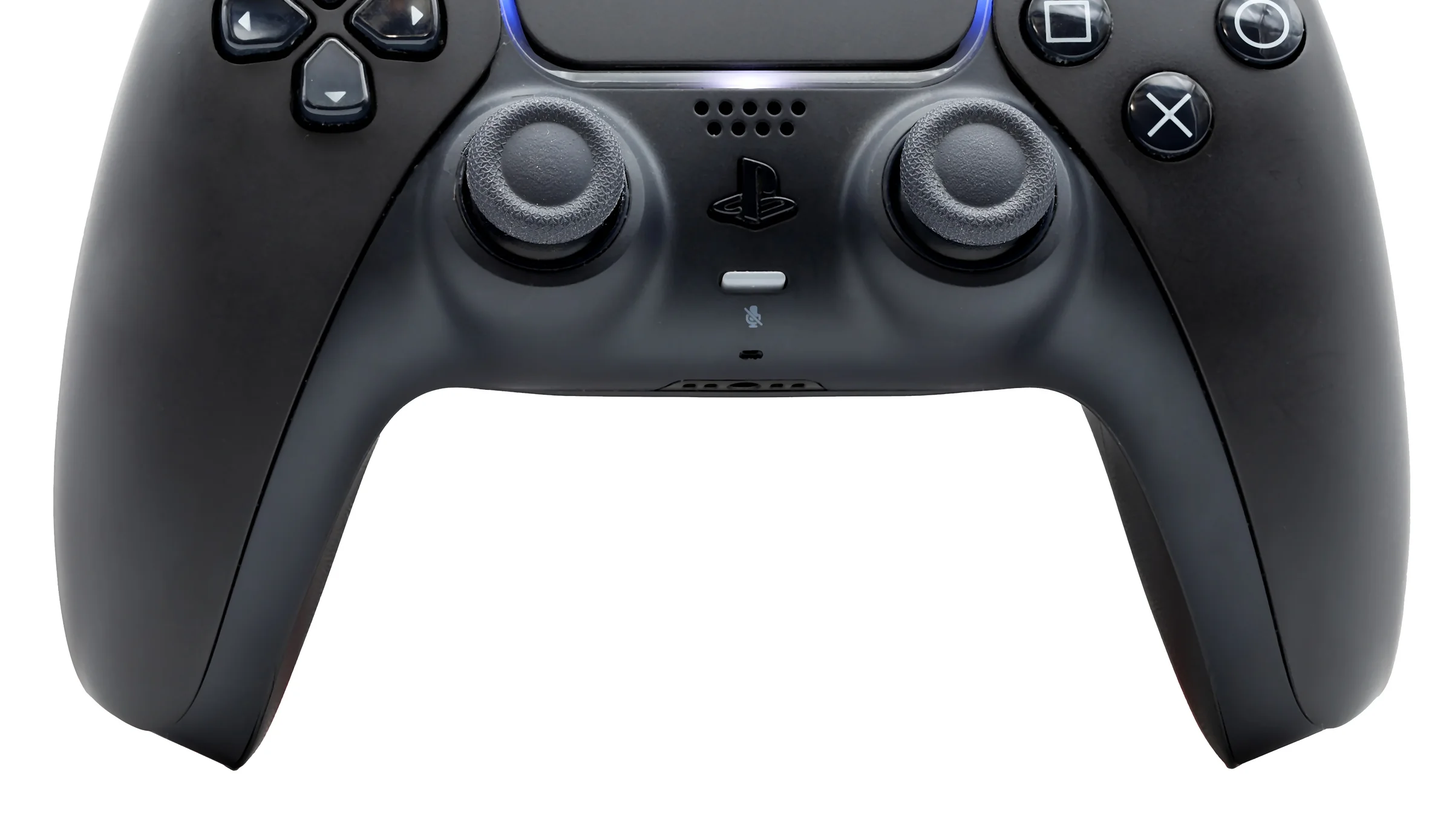
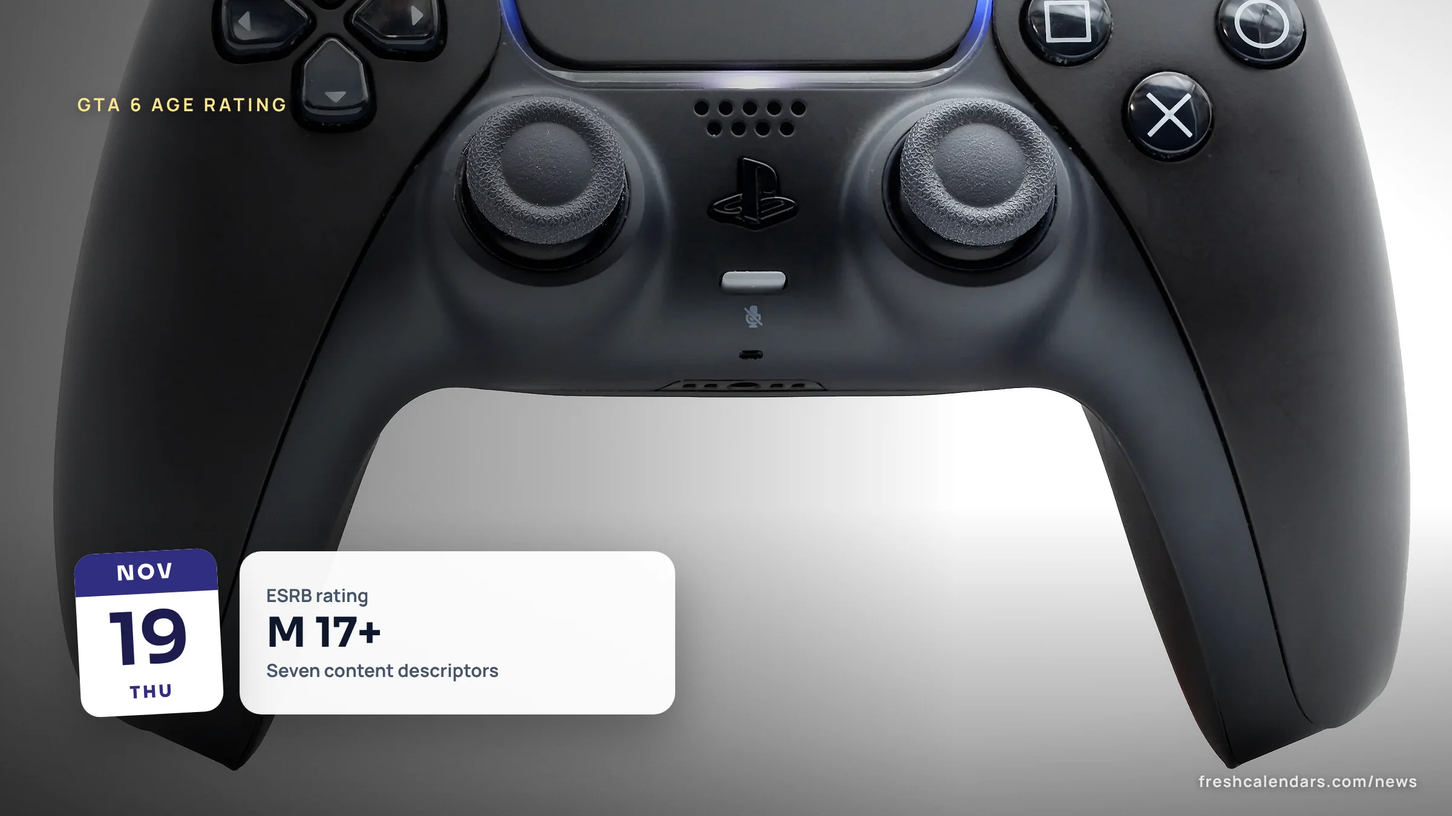
news(gta-6): launch stories in progress
Claude-Session: https://claude.ai/code/session_01FjeiYS8veVExHHG2PytUqw

diff --git a/apps/news/src/content/articles/2026/10/gta-6-october-22-2026-what-is-confirmed-release-countdown.md b/apps/news/src/content/articles/2026/10/gta-6-october-22-2026-what-is-confirmed-release-countdown.md
@@ -20,10 +20,10 @@ summary:
   - "Not announced: a PC version, an Xbox console release hour, Xbox install size and any online mode date."
 faq:
   - q: "Did GTA 6 change its release date?"
-    a: "No. Rockstar's official Grand Theft Auto VI page reads \"Coming November 19, 2026,\" and PlayStation, Microsoft and Take-Two Interactive all repeat Nov. 19. The date moved once, to Nov. 19 from the earlier May 26, 2026 target, before the June pre-orders; the Oct. 22 reveal day did not touch it."
+    a: "No. Rockstar's official Grand Theft Auto VI page reads \"Coming November 19, 2026,\" and PlayStation, Microsoft and Take-Two Interactive all repeat Nov. 19. The Oct. 22 reveal day did not touch it."
   - q: "When does GTA 6 come out?"
     a: "Thursday, Nov. 19, 2026, on PlayStation 5 and Xbox Series X|S, according to Rockstar Games and Take-Two Interactive. PlayStation says midnight local time on PS5."
-  - q: "What time does GTA 6 unlock?"
+  - q: "What time does GTA 6 release?"
     a: "PlayStation says \"Grand Theft Auto VI releases at midnight local time on November 19, 2026, on PlayStation 5 consoles.\" Xbox Cloud Gaming starts at 1 a.m. ET on Nov. 19 (12 a.m. CT, 11 p.m. MT and 10 p.m. PT on Nov. 18), per Microsoft. An official release hour for Xbox consoles is not announced."
   - q: "When could I pre-load GTA 6?"
     a: "Pre-load opened Tuesday, Nov. 10, 2026, for those who pre-ordered, according to Rockstar and PlayStation, which says PS5 pre-load started at midnight local time. Game Informer and Final Weapon, both citing Rockstar's support page on Nov. 3, report that Xbox Series X|S pre-load started at 12 a.m. Greenwich Mean Time (GMT) on Nov. 10, which was 7 p.m. ET on Monday, Nov. 9. Rockstar's own pages do not give an Xbox hour."
@@ -43,7 +43,19 @@ sources:
   - title: "Grand Theft Auto VI - PS5 Games | PlayStation (US)"
     url: "https://www.playstation.com/en-us/games/grand-theft-auto-vi/"
     publisher: "PlayStation"
-    date: "2026-11-13"
+    date: "2026-11-18"
+  - title: "Grand Theft Auto VI support (UK)"
+    url: "https://www.playstation.com/en-gb/support/games/gta-vi-support/"
+    publisher: "PlayStation"
+    date: "2026-11-18"
+  - title: "Grand Theft Auto VI Comes to XBOX One and XBOX Series X|S Through XBOX Cloud Gaming on November 19"
+    url: "https://news.xbox.com/en-us/2026/11/10/grand-theft-auto-6-comes-to-xbox-cloud-gaming-november-19/"
+    publisher: "Xbox Wire (Microsoft)"
+    date: "2026-11-10"
+  - title: "YouTube celebrates the launch and cultural impact of Grand Theft Auto VI"
+    url: "https://blog.youtube/news-and-events/youtube-rockstar-games-gta-vi-launch/"
+    publisher: "YouTube Official Blog"
+    date: "2026-11-12"
   - title: "You Can Preload Grand Theft Auto VI On PS5 And Xbox Next Week"
     url: "https://gameinformer.com/2026/11/03/you-can-preload-grand-theft-auto-vi-on-ps5-and-xbox-next-week-and-youll-want-to-because"
     publisher: "Game Informer"
@@ -106,6 +118,7 @@ sources:
   - title: "Grand Theft Auto VI rating"
     url: "https://www.esrb.org/ratings/41627/grand-theft-auto-vi/"
     publisher: "Entertainment Software Rating Board"
+    date: "2026-11-18"
   - title: "October 22 is Officially a Big Day for GTA 6"
     url: "https://opencritic.com/news/38082/october-22-is-officially-a-big-day-for-gta-6"
     publisher: "GameRant via OpenCritic"
@@ -120,7 +133,7 @@ internalLinks:
     label: "October 2026 printable calendar"
   - href: "/printable-weekly-calendar.html"
     label: "Printable weekly planner"
-related: [gta-6-countdown-release-time-by-time-zone, usps-holiday-shipping-deadlines-2026]
+related: [gta-6-countdown-release-time-by-time-zone, gta-6-physical-copy-no-disc-code-in-box, gta-6-price-editions-standard-ultimate-upgrade]
 downloads:
   - group: "GTA 6 printables"
     title: "GTA 6 Countdown Calendar, Oct. 18-Nov. 21, 2026"
@@ -133,28 +146,37 @@ downloads:
 draft: false
 ---
 
-**The Grand Theft Auto (GTA) VI release date is Thursday, Nov. 19, 2026, on PlayStation 5 (PS5) and Xbox Series X|S, per Rockstar's official game page (checked Nov. 13, 2026).** Pre-loading opened Tuesday, Nov. 10, for those who pre-ordered, and the standard edition costs $79.99. The newest Rockstar post, on Tuesday, Nov. 10, said pre-load is open; its second soundtrack album, the game's original score by Justice, is due Dec. 11. Rockstar has not said when the game unlocks on Nov. 19. No PC date either. Below is everything official, with every date until launch. For the hour the game unlocks where you live, see our [GTA 6 countdown and release time by time zone](/news/gta-6-countdown-release-time-by-time-zone/).
+**The Grand Theft Auto (GTA) VI release date is Thursday, Nov. 19, 2026, tomorrow, on PlayStation 5 (PS5) and Xbox Series X|S.** PlayStation says it "releases at midnight local time on November 19, 2026," Microsoft says Xbox Cloud Gaming starts at 1 a.m. Eastern Time (ET), and the Standard Edition costs $79.99. Pre-loading opened Tuesday, Nov. 10, and PS5 needs 212 GB of free space. Rockstar has not announced a PC version. Below is each confirmed fact with its source, then the dates that led here, including the Oct. 22 reveal day this story was first written around. For the hour the game releases where you live, see our [GTA 6 countdown and release time by time zone](/news/gta-6-countdown-release-time-by-time-zone/).
 
-## What Rockstar and Take-Two have confirmed
+## What is confirmed for Nov. 19
 
-These come from Take-Two Interactive's pre-order announcement of June 24, 2026, its Nov. 9 results release, and Rockstar's official game page and the PlayStation Store as of Nov. 13.
+Sources are Take-Two Interactive's pre-order announcement, PlayStation's support and game pages (read Nov. 18), Microsoft's Xbox Wire, YouTube's blog, Rockstar's game page and the Entertainment Software Rating Board (ESRB).
 
-| Item | Confirmed detail |
-|---|---|
-| Launch | Thursday, Nov. 19, 2026 |
-| Platforms | PlayStation 5 and Xbox Series X\|S |
-| Price | $79.99; Ultimate Edition $99.99 |
-| Pre-load | Open since Tue., Nov. 10 for pre-orders; at least 212GB free on PS5 (PlayStation Store) |
-| Boxed edition | Set to go on sale Thu., Nov. 12 (Take-Two); a download code in the box, no disc |
-| Pre-order bonus | Vintage Vice City Pack with any purchase before Nov. 20; a free month of GTA+ with digital pre-orders |
-| Stores | PlayStation Store, Microsoft Store, Rockstar Games Store and retailers |
-| Rating | M for Mature 17+ (Entertainment Software Rating Board) |
+| Item | Confirmed detail | Source |
+|---|---|---|
+| Launch | Thursday, Nov. 19, 2026 | Rockstar Games, Take-Two |
+| Platforms | PS5 and Xbox Series X\|S; Xbox One and Series X\|S through Xbox Cloud Gaming | Rockstar Games, Microsoft |
+| Price | $79.99 Standard; $99.99 Ultimate Edition | Take-Two, PlayStation Store |
+| Release time, PS5 | Midnight local time on Nov. 19 | PlayStation |
+| Release time, Xbox Cloud Gaming | 1 a.m. ET, Nov. 19 | Microsoft (Xbox Wire) |
+| YouTube stream | 24 hours from 12 a.m. ET on Nov. 19; pre-show at 11 p.m. ET on Wed., Nov. 18 | YouTube |
+| PS5 download | 212 GB of storage space | PlayStation |
+| Boxed edition | A download code inside the box and no disc; on sale from Nov. 12 per Take-Two | PlayStation, Take-Two |
+| Pre-order bonus | Vintage Vice City Pack with any purchase before Nov. 20 | Take-Two |
+| Rating | M for Mature 17+ | ESRB |
 
-The Ultimate Edition adds premium vehicles, weapons, apparel and other items, Take-Two said. GTA+ is Rockstar's paid membership for GTA Online, and its games library includes Grand Theft Auto V. Rockstar's page lists the game as playing best on PlayStation 5.
+- **Release time.** PlayStation's wording: "Grand Theft Auto VI releases at midnight local time on November 19, 2026, on PlayStation®5 consoles." Midnight arrives first in New Zealand; our [New Zealand release time story](/news/gta-6-new-zealand-release-time-nz-trick/) covers the order and the region question. Microsoft's Xbox Wire post says "Streaming for Grand Theft Auto VI begins at 1am ET on November 19," which is 12 a.m. Central, 11 p.m. Mountain and 10 p.m. Pacific on Nov. 18.
+- **Platforms.** Rockstar lists PS5 and Xbox Series X|S. Microsoft says the game is playable on day one through Xbox Cloud Gaming on Xbox One and Xbox Series X|S; see [Xbox One cloud gaming and the platform list](/news/gta-6-xbox-one-cloud-gaming-ps4-platforms/).
+- **Price.** Take-Two lists the Standard Edition at $79.99 and the Ultimate Edition at $99.99; [editions and the upgrade price](/news/gta-6-price-editions-standard-ultimate-upgrade/) are in their own story.
+- **Download.** PlayStation says to have 212 GB available on PS5; [the download size and what to do about a stuck pre-load](/news/gta-6-download-size-212-gb-ps5-pre-load-install-fix/) are covered there.
+- **Boxed edition.** PlayStation says "A disc will not be included in the box." See [GTA 6 physical copy: code in the box](/news/gta-6-physical-copy-no-disc-code-in-box/).
+- **YouTube.** YouTube's stream runs 24 hours from 12 a.m. ET on Nov. 19, with a pre-show hosted by RDCWorld at 11 p.m. ET on Nov. 18. It is YouTube's own stream; Rockstar has not announced a launch stream of its own. Times are in our [YouTube launch stream story](/news/gta-6-youtube-launch-livestream-time-24-hour-stream/).
+
+The Ultimate Edition adds premium vehicles, weapons, apparel and other items, Take-Two said. GTA+ is Rockstar's paid membership for GTA Online, and its games library includes Grand Theft Auto V. Digital pre-orders added a free month of GTA+.
 
 ## The Thursday pattern so far
 
-Rockstar's late-summer and fall announcements have mostly landed on Thursdays, though not every Thursday. The dated ones we could confirm on Rockstar's Newswire and the PlayStation Blog:
+Rockstar's late-summer and fall announcements mostly landed on Thursdays, though not every Thursday. The dated ones we confirmed on Rockstar's Newswire and the PlayStation Blog:
 
 | Date | What came out |
 |---|---|
@@ -167,7 +189,7 @@ Rockstar's late-summer and fall announcements have mostly landed on Thursdays, t
 | Thu., Oct. 22 | No GTA VI post on the Rockstar Newswire |
 | Thu., Oct. 29 | "Grand Theft Auto VI: Original Score" by Justice, out Dec. 11, and its single "Pusher" featuring Gesaffelstein |
 
-Rockstar also sells a collector's box called The Goodtime State, Vice City Collection. The one Thursday left is Nov. 19, launch day; the boxed edition was due on Nov. 12.
+Rockstar also sells a collector's box called The Goodtime State, Vice City Collection. The last Thursday on the list is Nov. 19, launch day; the boxed edition was due on Nov. 12.
 
 ## The GTA 6 score album by Justice
 
@@ -180,32 +202,40 @@ Rockstar's Oct. 29 post names Justice, the Grammy-winning French duo of Gaspard 
 
 The September album announcement opened with six singles, from artists including Travis Scott, Morgan Wallen and Rauw Alejandro.
 
-## What a Thursday reveal could and could not mean
+## What the Oct. 22 date was, and what it was not
 
-Nobody outside Rockstar knows what, if anything, lands on a given Thursday. The company has not teased the next reveal, and reports rest on the pattern, not on any announcement. Past Thursdays brought trailers, music and merchandise rather than changes to the date or price, and Take-Two's Aug. 7 and Nov. 9 earnings releases both repeated the Nov. 19 launch.
+Oct. 22 was a Thursday that readers expected to bring a reveal. Rockstar posted nothing about GTA VI on its Newswire that day, and the launch date and price did not change. Past Thursdays brought trailers, music and merchandise rather than changes to the date or price, and Take-Two's Aug. 7 and Nov. 9 earnings releases both repeated the Nov. 19 launch. Nobody outside Rockstar announced what Oct. 22 would hold, and the reports before it rested on the Thursday pattern.
 
-If something does arrive, it will be on the Rockstar Newswire and the game's official site first. Unofficial "release time" claims circulate online; Rockstar's game page gives no hour for pre-loading or launch. PlayStation's store page gives midnight local time for PS5 pre-load, and the Xbox hour comes from two newsrooms, Game Informer and Final Weapon, citing Rockstar's support page; treat any exact launch time that is not on a Rockstar or console-store page as unconfirmed.
+New facts will appear on the Rockstar Newswire and the game's official site first. Rockstar's game page gives no launch hour. PlayStation gives midnight local time and Microsoft gives 1 a.m. ET for Xbox Cloud Gaming; the Xbox pre-load hour came from two newsrooms, Game Informer and Final Weapon, citing Rockstar's support page. Treat any exact launch time that is not on a Rockstar, PlayStation or Microsoft page as unconfirmed.
 
 ## Every date until launch
 
-| Date | What happens |
-|---|---|
-| Sun., Nov. 1 | Clocks fall back one hour in the U.S. |
-| Mon., Nov. 9 | Take-Two reported quarterly results and repeated the Nov. 19 launch |
-| Tue., Nov. 10 | Pre-loading opened for pre-orders (PS5 at midnight local time, per PlayStation; Xbox Series X\|S at 12 a.m. GMT, 7 p.m. ET Mon., Nov. 9, per Game Informer and Final Weapon) |
-| Thu., Nov. 12 | Boxed edition (a download code, no disc) due on sale, per Take-Two |
-| Thu., Nov. 19 | Launch on PlayStation 5 and Xbox Series X\|S; the album and the DualSense controllers also arrive |
-| Fri., Nov. 20 | Purchases from this day on no longer include the Vintage Vice City Pack |
-| Fri., Dec. 11 | "Grand Theft Auto VI: Original Score" by Justice on streaming, CD and vinyl |
+| Date | What happens | Status |
+|---|---|---|
+| Thu., Oct. 22 | No GTA VI post on the Rockstar Newswire | Past |
+| Sun., Nov. 1 | Clocks fell back one hour in the U.S. | Past |
+| Mon., Nov. 9 | Take-Two reported quarterly results and repeated the Nov. 19 launch | Past |
+| Tue., Nov. 10 | Pre-loading opened for pre-orders (PS5 at midnight local time, per PlayStation; Xbox Series X\|S at 12 a.m. GMT, 7 p.m. ET Mon., Nov. 9, per Game Informer and Final Weapon) | Past |
+| Thu., Nov. 12 | Boxed edition (a download code, no disc) was due on sale, per Take-Two | Past |
+| Wed., Nov. 18, 11 p.m. ET | YouTube pre-show starts | Tonight |
+| Thu., Nov. 19, 12 a.m. ET | YouTube's 24-hour stream starts; PS5 release at midnight local time | Tomorrow |
+| Thu., Nov. 19, 1 a.m. ET | Xbox Cloud Gaming starts | Tomorrow |
+| Thu., Nov. 19 | Launch on PS5 and Xbox Series X\|S; the album and the DualSense controllers also arrive | Tomorrow |
+| Fri., Nov. 20 | Purchases from this day on no longer include the Vintage Vice City Pack | Upcoming |
+| Fri., Dec. 11 | "Grand Theft Auto VI: Original Score" by Justice on streaming, CD and vinyl | Upcoming |
 
 The Nov. 9 report covered the quarter that ended Sept. 30 and was Take-Two's last before launch; it reiterated Take-Two's Fiscal 2027 Net Bookings outlook of $8 billion to $8.2 billion. Thanksgiving falls a week after release, on Nov. 26; our [Thanksgiving 2026 guide](/news/why-thanksgiving-2026-is-november-26/) has what is closed that day.
 
 ## What is not confirmed
 
-- **A PC version.** Rockstar has not announced one, and Take-Two's August lineup lists only PlayStation 5 and Xbox Series X|S. Some outlets have reported a later PC release based on unnamed sources; Rockstar has not commented on them.
-- **A start time for launch.** Rockstar's pages give the Nov. 19 date only. The Xbox pre-load hour came from two newsrooms, not from Rockstar's pages.
-- **Download size on Xbox.** The PlayStation Store asks for a minimum of 212GB of free space on a PS5. Check the Microsoft Store listing for Xbox Series X|S, since the boxed edition also downloads the game.
+- **A PC version.** Rockstar has not announced one, and Take-Two's results release lists only PS5 and Xbox Series X|S. Some outlets have reported a later PC release based on unnamed sources; Rockstar has not commented on them.
+- **A single worldwide release moment.** None is announced; PlayStation says midnight local time.
+- **An Xbox console release hour.** Microsoft gives only 1 a.m. ET for Xbox Cloud Gaming.
+- **Whether changing a console's region starts the game early.** Rockstar, Sony and Microsoft have not confirmed it.
+- **Xbox Series X|S install size and any day-one patch size.** The only confirmed size is PlayStation's 212 GB minimum for PS5.
+- **GTA Online or any online mode date.** PlayStation's page calls GTA VI a single-player experience. Game Pass and PlayStation Plus inclusion are not announced either; Microsoft says the game must be purchased separately.
+- **Frame rate and resolution, the review embargo time, midnight store openings at retailers and prices outside the U.S.** None is announced on the pages we read.
 
 ## Plan the countdown
 
-Our free countdown calendar runs from Oct. 18 to Nov. 21 with the days left in every box and the confirmed dates marked. Pin it next to an [October](/october-calendars.html) or [November 2026 printable calendar](/november-calendars.html), or plan the launch week on a [weekly planner](/printable-weekly-calendar.html). For everything else on the calendar this month, see our [November 2026 important dates](/news/november-2026-important-dates-days-until/), and if you are shipping a controller or a copy as a gift, check the [USPS holiday shipping deadlines](/news/usps-holiday-shipping-deadlines-2026/). Our [November 2026 video game releases](/news/video-game-release-dates-november-2026-gta-6-ocarina-of-time/) guide lists every confirmed launch this month.
+Our free countdown calendar ran from Oct. 18 to Nov. 21 with the days left in every box and the confirmed dates marked. Pin it next to an [October](/october-calendars.html) or [November 2026 printable calendar](/november-calendars.html), or plan the launch week on a [weekly planner](/printable-weekly-calendar.html). For everything else on the calendar this month, see our [November 2026 important dates](/news/november-2026-important-dates-days-until/), and if you are shipping a controller or a copy as a gift, check the [USPS holiday shipping deadlines](/news/usps-holiday-shipping-deadlines-2026/). Our [November 2026 video game releases](/news/video-game-release-dates-november-2026-gta-6-ocarina-of-time/) guide lists every confirmed launch this month.

diff --git a/apps/news/src/content/articles/2026/11/gta-6-age-rating-esrb-m-17-parental-controls.md b/apps/news/src/content/articles/2026/11/gta-6-age-rating-esrb-m-17-parental-controls.md
@@ -1,0 +1,138 @@
+---
+title: "GTA 6 Age Rating: ESRB Rates It M for Mature 17+, Plus Parental Controls"
+description: "Grand Theft Auto (GTA) VI is rated M for Mature 17+ by the ESRB. Each descriptor in the ESRB's words, plus the PS5 and Xbox age-limit and spending steps."
+type: news
+publishedAt: "2026-11-18T05:20:00-05:00"
+authors: [jessica-hartwell]
+category: gaming-tech
+dateline: "New York"
+keywords: ["gta 6 age rating", "gta 6 esrb", "gta 6 parents guide", "how to block gta 6 on ps5", "is gta 6 ok for kids"]
+hero:
+  src: ../../../../assets/news/gta-6-age-rating-esrb-m-17-parental-controls/gta-6-age-rating-esrb-m-17-parental-controls.webp
+  alt: "PlayStation 5 DualSense controller in Midnight Black, a file photo for the GTA 6 age rating and parental controls guide"
+  caption: "File photo of a PlayStation 5 DualSense controller. The ESRB rates Grand Theft Auto VI M for Mature 17+, and the game launches Nov. 19."
+  credit: "Photo: Chris Woodrich / Wikimedia Commons, cropped"
+  license:
+    name: "CC BY-SA 4.0"
+    url: "https://creativecommons.org/licenses/by-sa/4.0"
+    source: "https://commons.wikimedia.org/wiki/File:Playstation_5_DualSense_controller_in_Midnight_Black,_2026-02-07_(front).jpg"
+    author: "Chris Woodrich"
+    authorUrl: "https://commons.wikimedia.org/wiki/User:Crisco_1492"
+assets:
+  overlay: true
+  kicker: "GTA 6 age rating"
+  date: "2026-11-19"
+  card: { top: "ESRB rating", big: "M 17+", bottom: "Seven content descriptors" }
+summary:
+  - "The Entertainment Software Rating Board (ESRB) rates Grand Theft Auto VI M for Mature 17+ on PlayStation 5 and Xbox Series."
+  - "The ESRB lists Blood and Gore, Intense Violence, Mature Humor, Nudity, Strong Language, Strong Sexual Content, and Use of Drugs and Alcohol, and notes In-Game Purchases."
+  - "On PS5, the age level for games is set under Family Management; PlayStation's default monthly spending limit for a child is 0."
+  - "Which PS5 age level matches M, the in-game purchases and Rockstar's minimum account age are not confirmed."
+faq:
+  - q: "Does GTA 6 have in-game purchases?"
+    a: "The ESRB's rating page says the game also includes In-Game Purchases. The ESRB defines that label as offers to buy digital goods with real world currency. Which items GTA VI sells is not confirmed."
+  - q: "Can GTA 6 be played online with other people?"
+    a: "PlayStation's game page calls Grand Theft Auto VI a single-player experience. The same page says some features may require a Rockstar Games account, with a minimum age that varies."
+  - q: "Is there a PEGI rating for GTA 6?"
+    a: "Not confirmed. A search of the PEGI database at pegi.info returned no entry for the game on Nov. 18, and ratings from other countries' boards are not covered here."
+  - q: "What happens if a child asks to play a blocked game on PS5?"
+    a: "PlayStation says a child can ask for an exception for a game. The parent gets a notification and an email, and on PS5 can find the request under Notifications in the control center, then Allowed Games."
+sources:
+  - title: "Grand Theft Auto VI"
+    url: "https://www.esrb.org/ratings/41627/grand-theft-auto-vi/"
+    publisher: "Entertainment Software Rating Board"
+    date: "2026-11-18"
+  - title: "ESRB Ratings Guides, Categories, Content Descriptors"
+    url: "https://www.esrb.org/ratings-guide/"
+    publisher: "Entertainment Software Rating Board"
+    date: "2026-11-18"
+  - title: "Frequently Asked Questions"
+    url: "https://www.esrb.org/faqs/"
+    publisher: "Entertainment Software Rating Board"
+    date: "2026-11-18"
+  - title: "How to set parental controls on PlayStation consoles"
+    url: "https://www.playstation.com/en-us/support/account/ps5-parental-controls-spending-limits/"
+    publisher: "PlayStation (Sony Interactive Entertainment)"
+    date: "2026-11-18"
+  - title: "Xbox - Parental Controls"
+    url: "https://www.esrb.org/tools-for-parents/parental-controls/xbox/"
+    publisher: "Entertainment Software Rating Board"
+    date: "2026-11-18"
+  - title: "Grand Theft Auto VI - PS5 Games | PlayStation (US)"
+    url: "https://www.playstation.com/en-us/games/grand-theft-auto-vi/"
+    publisher: "PlayStation"
+    date: "2026-11-18"
+internalLinks:
+  - href: "/november-calendars.html"
+    label: "November 2026 printable calendar"
+  - href: "/december-calendars.html"
+    label: "December 2026 printable calendar"
+related: [gta-6-october-22-2026-what-is-confirmed-release-countdown, gta-6-price-editions-standard-ultimate-upgrade, gta-6-xbox-one-cloud-gaming-ps4-platforms]
+draft: false
+---
+
+**The Entertainment Software Rating Board (ESRB) rates Grand Theft Auto (GTA) VI M for Mature 17+ on PlayStation 5 and Xbox Series, according to its rating page for the game.** The ESRB's summary lists Blood and Gore, Intense Violence, Mature Humor, Nudity, Strong Language, Strong Sexual Content, and Use of Drugs and Alcohol, and adds that the game includes In-Game Purchases. The game launches Thursday, Nov. 19 (see [every confirmed GTA 6 date](/news/gta-6-october-22-2026-what-is-confirmed-release-countdown/)). Below are the ESRB's definitions and the console steps for limiting games by age.
+
+## What does the GTA 6 M 17+ rating mean?
+
+The ESRB's ratings guide defines M (Mature 17+) this way: "Content is generally suitable for ages 17 and up. May contain intense violence, blood and gore, sexual content and/or strong language."
+
+## GTA 6 content descriptors in the ESRB's words
+
+| Descriptor on the GTA VI rating | ESRB definition |
+|---|---|
+| Blood and Gore | "Depictions of blood or the mutilation of body parts" |
+| Intense Violence | "Graphic and realistic-looking depictions of physical conflict. May involve extreme and/or realistic blood, gore, weapons and depictions of human injury and death." |
+| Mature Humor | "Depictions or dialogue involving "adult" humor, including sexual references" |
+| Nudity | "Graphic or prolonged depictions of nudity" |
+| Strong Language | "Explicit and/or frequent use of profanity" |
+| Strong Sexual Content | "Explicit and/or frequent depictions of sexual behavior, possibly including nudity" |
+| Use of Drugs and Alcohol | Use of Drugs: "The consumption or use of illegal drugs". Use of Alcohol: "The consumption of alcoholic beverages". |
+| In-Game Purchases (an interactive element, listed separately) | "Contains in-game offers to purchase digital goods or premiums with real world currency, including but not limited to bonus levels, skins, music, virtual coins and other forms of in-game currency, subscriptions, season passes and upgrades (e.g., to disable ads)." |
+
+## What M 17+ means at the store
+
+The ESRB's FAQ says "Most major retailers have established their own store policies requiring ESRB ratings." It adds that retailers "have also implemented age verification for the sale or rental of M (Mature)" games. Citing the Federal Trade Commission (FTC), the ESRB says "unaccompanied children who attempt to purchase a Mature-rated video game are stopped 87% of the time." The ESRB describes its rating system as voluntary.
+
+## PS5: restrict games by age
+
+PlayStation's support page gives this path. On PS5, a game can start "if the age rating is the same or lower than the child's age."
+
+1. Go to Settings > Family and Parental Controls > Family Management.
+2. Select the child.
+3. Select "Age level for games and apps (PS5/PS4 and PS3)".
+4. Choose a level. The presets are named "Late Teens or Older", "Early Teens" and "Child".
+
+The page does not say which level matches M; it links to Sony's age ratings page for that.
+
+## Xbox Series X|S: restrict games by age
+
+The steps below come from the ESRB's Xbox parental controls guide, which summarizes Microsoft's settings.
+
+On the console:
+
+1. Open "Privacy and online safety".
+2. Choose the family member.
+3. Select "Content restrictions" and set an age level.
+
+The guide's example is that "11" allows E10+ games but not T or M. In the Xbox Family Settings app, the path is "Your Family" > the child > "Content Restrictions" > "Allow Content Suitable for Age".
+
+## Spending and purchase approval
+
+| Platform | Setting | Source's words |
+|---|---|---|
+| PlayStation | Select the child, then Parental Controls > Monthly Spending Limit | "By default, the monthly spending limit is set to 0." |
+| Xbox (ESRB guide) | On the Microsoft Family site | "Needs adult approval to buy things" set to On |
+| Xbox (ESRB guide) | In the Family Settings app | The child > "Screen Time" |
+
+On PlayStation, a child can request an exception for a game. The parent receives a notification and an email, and on PS5 can press the PS button, open the control center, select Notifications and go to Allowed Games.
+
+## What is not confirmed about the GTA 6 rating
+
+- A PEGI (Pan European Game Information) rating: a search of pegi.info returned no entry for the game on Nov. 18.
+- Ratings from other countries' boards.
+- Which PS5 age level equals M.
+- What the in-game purchases are. The price of the Standard Edition is $79.99, per Take-Two Interactive; the [price and edition breakdown](/news/gta-6-price-editions-standard-ultimate-upgrade/) covers it.
+- Rockstar's minimum age for the Rockstar Games account that some features require: PlayStation's page says only that the "minimum age varies".
+
+Platform availability, including [Xbox cloud streaming](/news/gta-6-xbox-one-cloud-gaming-ps4-platforms/), is covered separately.

diff --git a/apps/news/src/content/articles/2026/10/video-game-release-dates-november-2026-gta-6-ocarina-of-time.md b/apps/news/src/content/articles/2026/10/video-game-release-dates-november-2026-gta-6-ocarina-of-time.md
@@ -1,9 +1,9 @@
 ---
 title: "Video Game Release Dates November 2026: GTA 6 on Nov. 19"
-description: "Grand Theft Auto (GTA) VI launches Thu., Nov. 19, 2026, says Rockstar Games, and pre-load is open. Eight November games by weekday, plus a printable."
+description: "Grand Theft Auto (GTA) VI launches Thu., Nov. 19, 2026, at midnight local time on PS5. Eight November games by weekday, plus a printable."
 type: news
 publishedAt: "2026-10-31T14:23:00-04:00"
-updatedAt: "2026-11-14T15:07:00-05:00"
+updatedAt: "2026-11-18T05:35:00-05:00"
 authors: [jessica-hartwell]
 category: gaming-tech
 keywords: ["video game release dates november 2026", "new games november 2026", "games coming out november 2026", "gta 6 release date november 19"]
@@ -47,10 +47,10 @@ summary:
   - "Eight games have a November 2026 date on the publisher's own page, from World of Warcraft: Forever on Wednesday, Nov. 4 to Grand Theft Auto VI on Thursday, Nov. 19."
   - "Thursday, Nov. 12 has three releases: Metaphor: ReFantazio, Pikmin 4 Nintendo Switch 2 Edition and Sonic Pico Park."
   - "Blizzard said World of Warcraft: Forever would launch worldwide at 3:00 p.m. Pacific Standard Time (PST), which is 6 p.m. Eastern Time (ET), and it is now live."
-  - "Rockstar Games lists Grand Theft Auto VI for Nov. 19 and has opened pre-load, but its pages we read give no launch time or price."
+  - "Grand Theft Auto VI launches Nov. 19 at midnight local time on PlayStation 5, which needs 212 GB; Xbox Cloud Gaming starts at 1 a.m. ET. Pre-load opened Nov. 10."
 faq:
   - q: "When does Grand Theft Auto VI come out?"
-    a: "Rockstar Games lists Grand Theft Auto VI for Thursday, Nov. 19, 2026 on PlayStation 5 and Xbox Series X|S. Rockstar has opened pre-load, and the pages we read give no launch time or price."
+    a: "Thursday, Nov. 19, 2026, on PlayStation 5 and Xbox Series X|S, per Rockstar Games. PlayStation says it releases at midnight local time on PS5 and needs 212 GB of storage space. Microsoft says Xbox Cloud Gaming starts at 1 a.m. ET. Pre-load opened Nov. 10."
   - q: "When does Ocarina of Time come out on Nintendo Switch 2?"
     a: "It was set for Thursday, Nov. 5, 2026, and Nintendo's US store page now reads \"Available now.\""
   - q: "What time did World of Warcraft: Forever launch?"
@@ -58,6 +58,18 @@ faq:
   - q: "Is The Binding of Isaac: Repentance+ Online in the table?"
     a: "No. Gematsu reported Nov. 19 on Aug. 18, 2026, but we found no publisher page, so it stays out until one confirms it."
 sources:
+  - title: "Grand Theft Auto VI support (UK)"
+    url: "https://www.playstation.com/en-gb/support/games/gta-vi-support/"
+    publisher: "PlayStation"
+    date: "2026-11-18"
+  - title: "Grand Theft Auto VI - PS5 Games | PlayStation (US)"
+    url: "https://www.playstation.com/en-us/games/grand-theft-auto-vi/"
+    publisher: "PlayStation"
+    date: "2026-11-18"
+  - title: "Grand Theft Auto VI Comes to XBOX One and XBOX Series X|S Through XBOX Cloud Gaming on November 19"
+    url: "https://news.xbox.com/en-us/2026/11/10/grand-theft-auto-6-comes-to-xbox-cloud-gaming-november-19/"
+    publisher: "Xbox Wire (Microsoft)"
+    date: "2026-11-10"
   - title: "Grand Theft Auto VI"
     url: "https://www.rockstargames.com/VI"
     publisher: "Rockstar Games"
@@ -129,7 +141,7 @@ Blizzard said World of Warcraft: Forever would launch worldwide at 3:00 p.m. Pac
 
 ## When is Grand Theft Auto VI out, and what has Rockstar not said?
 
-Rockstar's game page reads "Coming November 19, 2026," and its newswire article is titled "Grand Theft Auto VI is Now Set to Launch November 19, 2026." The platforms are PS5 and Xbox Series X|S. Rockstar opened pre-load on Nov. 10, according to the headline of its newswire post, "Pre-Load Grand Theft Auto VI Now." The Rockstar pages we read give no launch time and no price. Our [GTA 6 countdown by time zone](/news/gta-6-countdown-release-time-by-time-zone/) tracks the days left, and [what is confirmed for the game](/news/gta-6-october-22-2026-what-is-confirmed-release-countdown/) covers the rest.
+Rockstar's game page reads "Coming November 19, 2026," and its newswire article is titled "Grand Theft Auto VI is Now Set to Launch November 19, 2026." The platforms are PS5 and Xbox Series X|S. PlayStation says the game "releases at midnight local time on November 19, 2026" on PS5 and asks for 212 GB of storage space, and Microsoft says Xbox Cloud Gaming starts at 1 a.m. ET on Nov. 19. Rockstar opened pre-load on Nov. 10, according to the headline of its newswire post, "Pre-Load Grand Theft Auto VI Now." An official release hour for Xbox consoles is not announced. Our [GTA 6 countdown by time zone](/news/gta-6-countdown-release-time-by-time-zone/) has the zone table, [what is confirmed for the game](/news/gta-6-october-22-2026-what-is-confirmed-release-countdown/) covers the rest, and the [download size story](/news/gta-6-download-size-212-gb-ps5-pre-load-install-fix/) and [New Zealand release time story](/news/gta-6-new-zealand-release-time-nz-trick/) go deeper on the 212 GB file and who gets the game first.
 
 ## Which November 2026 releases share a day?
 

diff --git a/apps/news/src/content/articles/2026/10/gta-6-countdown-release-time-by-time-zone.md b/apps/news/src/content/articles/2026/10/gta-6-countdown-release-time-by-time-zone.md
@@ -173,7 +173,7 @@ The US listing's 05:00 UTC converts like this on Wednesday, Nov. 18 and Thursday
 | Mountain Time (MT) | 10 p.m., Wed., Nov. 18 |
 | Pacific Time (PT) | 9 p.m., Wed., Nov. 18 |
 
-If the US store's moment applies to you, the West Coast gets the game on Wednesday evening, not at midnight. The listing is for the storefront, so the one to read is the one that matches your console account's store region. Whether changing a console's region unlocks the game early is not confirmed by Rockstar, Sony or Microsoft; our [New Zealand release time story](/news/gta-6-new-zealand-release-time-nz-trick/) covers it.
+If the US store's moment applies to you, the West Coast gets the game on Wednesday evening, not at midnight. The listing is for the storefront, so the one to read is the one that matches your console account's store region. Whether changing a console's region starts the game early is not confirmed by Rockstar, Sony or Microsoft; our [New Zealand release time story](/news/gta-6-new-zealand-release-time-nz-trick/) covers it.
 
 ### GTA 6 on Xbox Cloud Gaming
 
